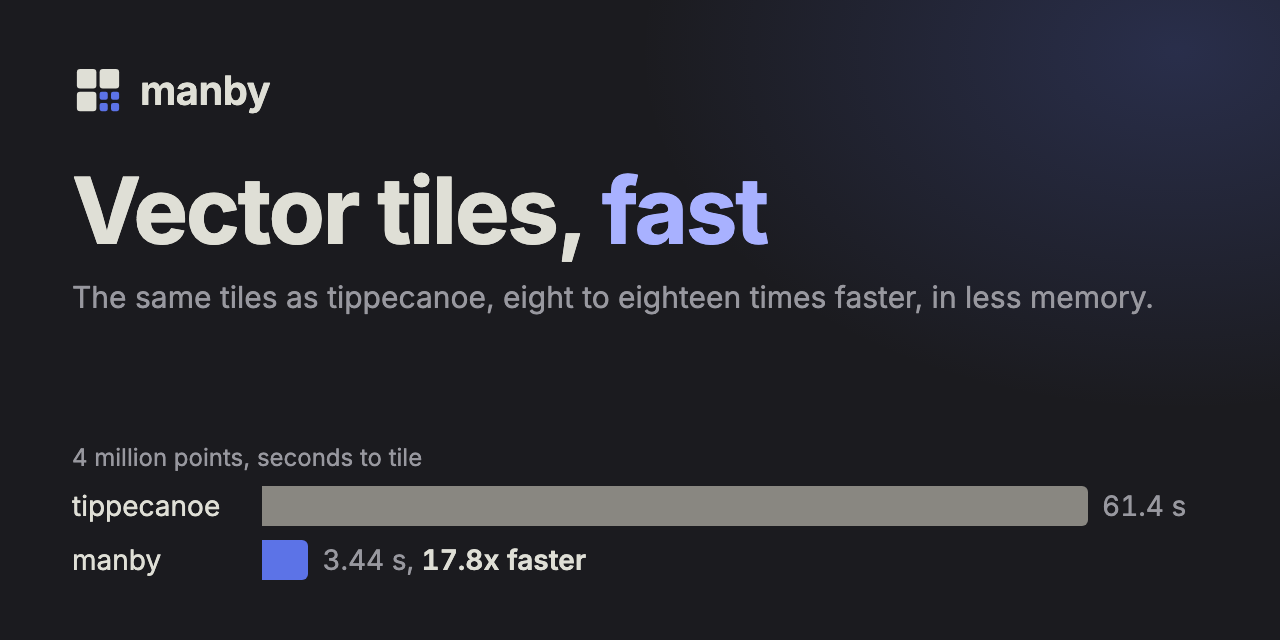
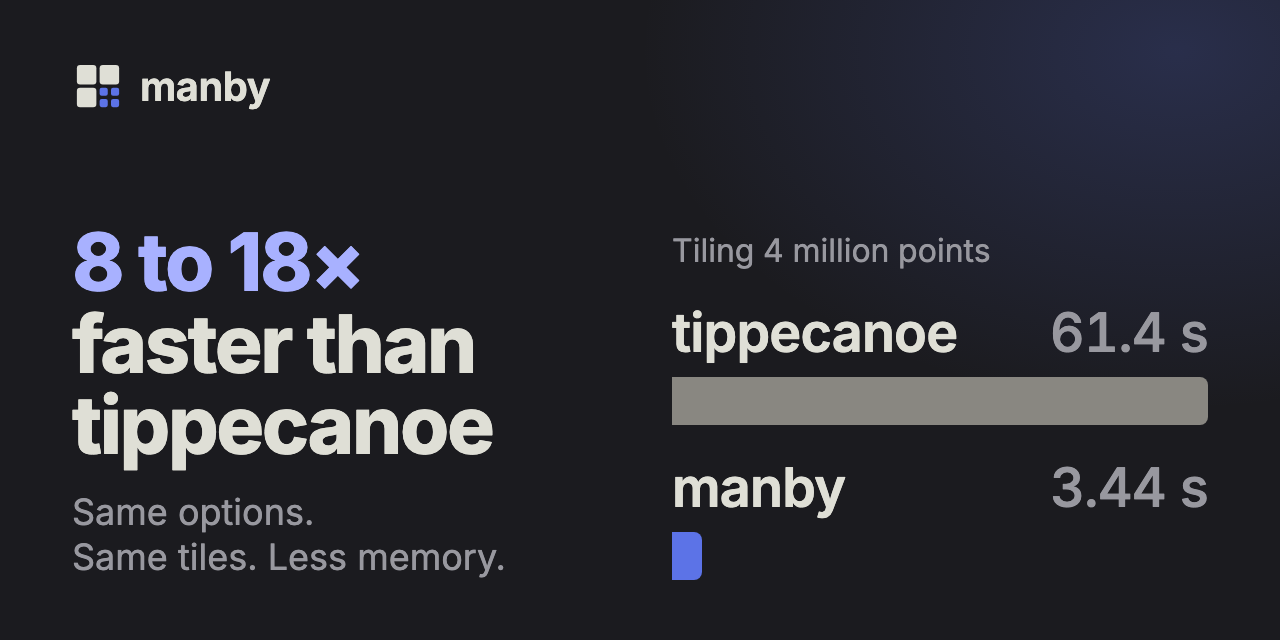
Site: a social card that reads at phone size
The claim in the big type, 8 to 18x faster than tippecanoe, with Same
options. Same tiles. Less memory. under it, and the chart in the right
half with labels twice the size. og:title is the same claim in words.

Changed region(s): [[0.0312, 0.25, 0.9688, 0.9062], [0.0625, 0.0938, 0.2188, 0.1875]]

diff --git a/site/og/card.html b/site/og/card.html
@@ -3,7 +3,9 @@
 	The social card for links to the site (public/og.png) and the GitHub
 	repository (og/github-social.png). og/render.sh screenshots it with
 	headless Chrome at the size each needs; the layout follows the window.
-	Colors are the site's dark theme, from src/styles/tokens.css.
+	It is made to read at a glance at phone size, where a feed shows it about
+	360 pixels wide. Colors are the site's dark theme, from
+	src/styles/tokens.css.
 -->
 <html lang="en">
 	<head>
@@ -18,7 +20,6 @@
 			}
 			:root {
 				--bg: #1b1b1f;
-				--bg-soft: #202127;
 				--text-1: #dfdfd6;
 				--text-2: #98989f;
 				--brand-1: #a8b1ff;
@@ -34,17 +35,21 @@
 				width: 100vw;
 				height: 100vh;
 				overflow: hidden;
-				background: var(--bg);
 				color: var(--text-1);
 				font-family: 'Inter', sans-serif;
 			}
 			body {
-				display: flex;
-				flex-direction: column;
-				padding: 64px 72px 60px;
+				display: grid;
+				grid-template-columns: 1fr 1fr;
+				column-gap: 64px;
+				padding: 60px 72px;
 				background:
 					radial-gradient(60% 80% at 92% 8%, rgba(92, 115, 231, 0.22), transparent 70%),
 					var(--bg);
+			}
+			.text {
+				display: flex;
+				flex-direction: column;
 			}
 			.brand {
 				display: flex;
@@ -59,91 +64,83 @@
 				height: 52px;
 			}
 			h1 {
-				margin-top: 48px;
-				font-size: 92px;
+				margin-top: auto;
+				font-size: 80px;
 				line-height: 1.02;
-				font-weight: 720;
-				letter-spacing: -0.025em;
+				font-weight: 760;
+				letter-spacing: -0.03em;
+				text-wrap: balance;
 			}
 			h1 span {
 				color: var(--brand-1);
 			}
-			.pitch {
-				margin-top: 20px;
-				font-size: 30px;
-				line-height: 1.3;
-				text-wrap: balance;
+			.sub {
+				margin-top: 24px;
+				font-size: 36px;
+				line-height: 1.25;
 				color: var(--text-2);
+				text-wrap: balance;
+			}
+			.sub span {
+				white-space: nowrap;
 			}
 			.chart {
-				margin-top: auto;
-				display: grid;
-				grid-template-columns: 190px 1fr;
-				row-gap: 14px;
-				align-items: center;
-				font-size: 28px;
-			}
-			.chart .title {
-				grid-column: 1 / -1;
-				font-size: 24px;
-				color: var(--text-2);
-			}
-			.chart .name {
-				color: var(--text-1);
-			}
-			.row {
+				align-self: end;
 				display: flex;
-				align-items: center;
-				gap: 14px;
-				color: var(--text-2);
+				flex-direction: column;
 				font-variant-numeric: tabular-nums;
 			}
-			.bar {
-				height: 40px;
-				border-radius: 0 6px 6px 0;
+			.chart .title {
+				font-size: 32px;
+				color: var(--text-2);
 			}
-			.row b {
-				color: var(--text-1);
+			.label {
+				display: flex;
+				justify-content: space-between;
+				align-items: baseline;
+				margin-top: 30px;
+				font-size: 54px;
 				font-weight: 600;
+				letter-spacing: -0.015em;
+			}
+			.label .value {
+				font-weight: 500;
+				color: var(--text-2);
+			}
+			.bar {
+				margin-top: 12px;
+				height: 48px;
+				border-radius: 0 8px 8px 0;
 			}
 		</style>
 	</head>
 	<body>
-		<div class="brand">
-			<svg viewBox="0 0 32 32" aria-hidden="true">
-				<g fill="#dfdfd6">
-					<rect x="3" y="3" width="12" height="12" rx="2" />
-					<rect x="17" y="3" width="12" height="12" rx="2" />
-					<rect x="3" y="17" width="12" height="12" rx="2" />
-				</g>
-				<g fill="#5c73e7">
-					<rect x="17" y="17" width="5" height="5" rx="1.25" />
-					<rect x="24" y="17" width="5" height="5" rx="1.25" />
-					<rect x="17" y="24" width="5" height="5" rx="1.25" />
-					<rect x="24" y="24" width="5" height="5" rx="1.25" />
-				</g>
-			</svg>
-			manby
+		<div class="text">
+			<div class="brand">
+				<svg viewBox="0 0 32 32" aria-hidden="true">
+					<g fill="#dfdfd6">
+						<rect x="3" y="3" width="12" height="12" rx="2" />
+						<rect x="17" y="3" width="12" height="12" rx="2" />
+						<rect x="3" y="17" width="12" height="12" rx="2" />
+					</g>
+					<g fill="#5c73e7">
+						<rect x="17" y="17" width="5" height="5" rx="1.25" />
+						<rect x="24" y="17" width="5" height="5" rx="1.25" />
+						<rect x="17" y="24" width="5" height="5" rx="1.25" />
+						<rect x="24" y="24" width="5" height="5" rx="1.25" />
+					</g>
+				</svg>
+				manby
+			</div>
+			<h1><span>8 to 18×</span> faster than tippecanoe</h1>
+			<p class="sub"><span>Same options.</span> <span>Same tiles.</span> <span>Less memory.</span></p>
 		</div>
-		<h1>Vector tiles, <span>fast</span></h1>
-		<p class="pitch">
-			The same tiles as tippecanoe, eight to eighteen times faster, in less memory.
-		</p>
 		<div class="chart">
-			<div class="title">4 million points, seconds to tile</div>
-			<div class="name">tippecanoe</div>
-			<div class="row">
-				<div class="bar" style="width: calc((100% - 120px)); background: var(--other)"></div>
-				61.4 s
-			</div>
-			<div class="name">manby</div>
-			<div class="row">
-				<div
-					class="bar"
-					style="width: calc((100% - 120px) * 3.44 / 61.4); background: var(--brand-2)"
-				></div>
-				<span>3.44 s, <b>17.8x faster</b></span>
-			</div>
+			<div class="title">Tiling 4 million points</div>
+			<div class="label">tippecanoe <span class="value">61.4 s</span></div>
+			<div class="bar" style="width: 100%; background: var(--other)"></div>
+			<div class="label">manby <span class="value">3.44 s</span></div>
+			<div class="bar" style="width: calc(100% * 3.44 / 61.4); background: var(--brand-2)"></div>
 		</div>
 	</body>
 </html>
